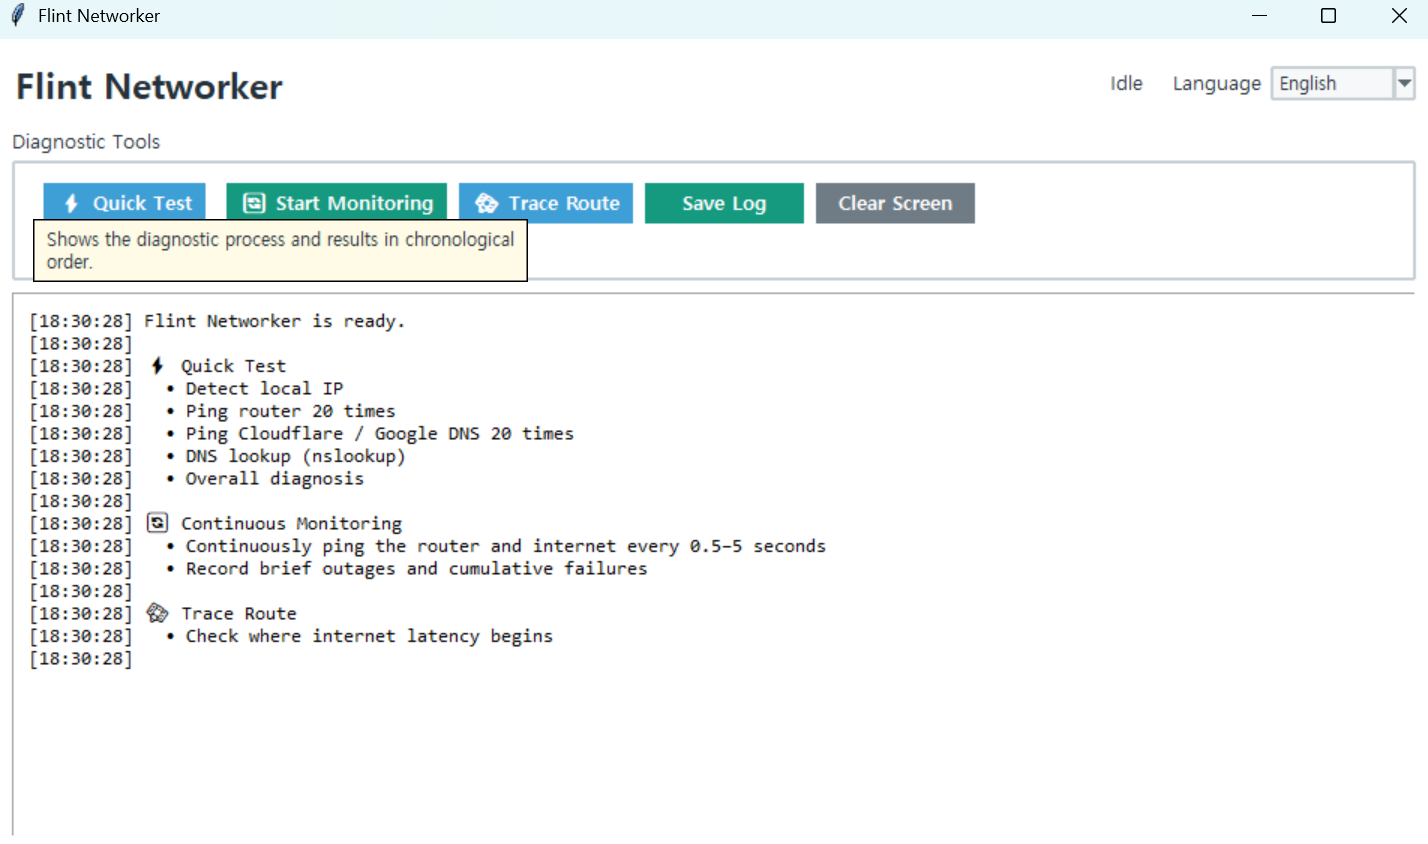
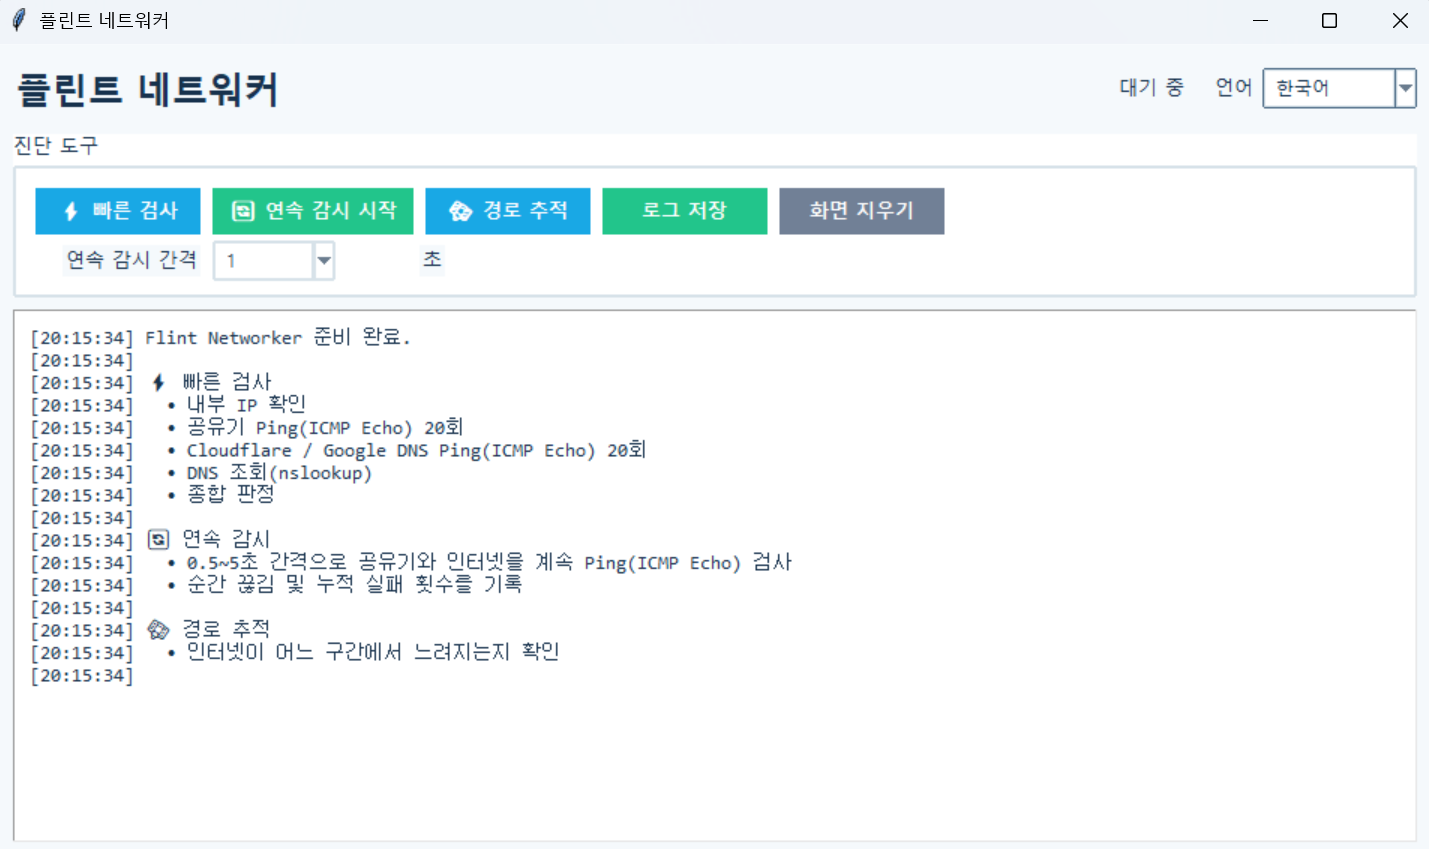
Update badamail: 8 files

diff --git a/toolbox/fnw.html b/toolbox/fnw.html
@@ -1,0 +1,61 @@
+<!doctype html>
+<html lang="ko">
+<head>
+  <meta charset="utf-8">
+  <meta name="viewport" content="width=device-width, initial-scale=1">
+  <title>플린트 네트워커 | 플린트의 공구함</title>
+  <meta name="description" content="인터넷 끊김이나 지연이 PC, 공유기, 외부 회선, DNS 중 어느 구간에서 발생하는지 확인하는 Windows용 네트워크 진단 도구입니다.">
+  <meta name="robots" content="index, follow">
+  <meta property="og:site_name" content="Blackship">
+  <meta property="og:title" content="플린트 네트워커 | 플린트의 공구함">
+  <meta property="og:description" content="인터넷 끊김이나 지연이 PC, 공유기, 외부 회선, DNS 중 어느 구간에서 발생하는지 확인하는 Windows용 네트워크 진단 도구입니다.">
+  <meta property="og:type" content="website">
+  <link rel="alternate" hreflang="ko" href="https://blackship.kr/toolbox/fnw.html">
+  <link rel="alternate" hreflang="en" href="https://blackship.kr/en/toolbox/fnw.html">
+  <link rel="alternate" hreflang="x-default" href="https://blackship.kr/toolbox/fnw.html">
+  <link rel="icon" href="../favicon.ico" type="image/x-icon">
+  <link rel="stylesheet" href="../style.css">
+</head>
+<body>
+  <header class="site-header">
+    <a class="logo" href="../index.html">Blackship</a>
+    <nav class="nav">
+
+      <a href="../index.html">홈</a>
+      <a href="../hidden.html">💎 숨은 보물</a>
+      <a href="../value.html">💰 가성비 보물</a>
+      <a href="../popular.html">🔥 인기 보물</a>
+      <a href="../random.html">🎲 랜덤 보물</a>
+      <a href="../toolbox.html">🧰 공구함</a>
+      <a href="../badamail.html">바다메일</a>
+    </nav>
+  </header>
+
+  <main>
+    
+        <article class="detail toolbox-detail">
+          <div class="toolbox-detail-media">
+            <img src="images/fnw.png" alt="플린트 네트워커" loading="lazy">
+          </div>
+          <div class="toolbox-detail-content">
+            <h1>플린트 네트워커</h1>
+            <p class="toolbox-detail-version">버전: 1.0.0</p>
+            <div class="toolbox-detail-description">
+              <h2>Flint Networker</h2><p>인터넷 끊김이나 지연이 PC, 공유기, 외부 회선, DNS 중 어느 구간에서 발생하는지 확인하는 Windows용 네트워크 진단 도구입니다.</p><h3>빠른 검사</h3><ol><li>프로그램을 실행합니다.</li><li><code>빠른 검사</code>를 누릅니다.</li><li>검사가 끝나면 하단의 종합 판정을 확인합니다.</li><li>필요한 경우 <code>로그 저장</code>을 눌러 결과를 보관합니다.</li></ol><p>빠른 검사는 다음 항목을 확인합니다.</p><ul><li>내부 IP</li><li>기본 게이트웨이</li><li>공유기 Ping 20회</li><li>Cloudflare 및 Google DNS Ping 20회</li><li>DNS 조회</li><li>패킷 손실과 지연시간</li><li>문제 구간 종합 판정</li></ul><h3>연속 감시</h3><p>순간적으로 발생하는 인터넷 끊김을 확인할 때 사용합니다.</p><ol><li>감시 간격을 선택합니다.</li><li><code>연속 감시 시작</code>을 누릅니다.</li><li>끊김이 발생할 때까지 프로그램을 실행해 둡니다.</li><li>검사를 끝낼 때 <code>연속 감시 중지</code>를 누릅니다.</li></ol><p>공유기와 외부 인터넷을 계속 검사하며 누적 실패 횟수를 기록합니다.</p><h3>경로 추적</h3><p><code>경로 추적</code>을 누르면 외부 인터넷까지 거치는 구간을 확인할 수 있습니다.</p><h3>실행 환경</h3><p>Windows의 <code>ping</code>, <code>route</code>, <code>nslookup</code>, <code>tracert</code> 명령을 사용하므로 Windows 전용입니다.</p><p>실행:</p><pre><code class="language-bash">python networker.py</code></pre><blockquote><p><code>참고:</code> 실행 파일(EXE) 버전을 사용하는 경우에는 python 명령을 실행할 필요가 없습니다.</p></blockquote>
+            </div>
+            <div class="toolbox-detail-actions">
+              <a class="buy-button" href="https://github.com/flinthawke/toolbox/releases/download/fnw-v1.0.0/fnw.1.0.0.portable.zip">다운로드</a> <a class="badamail-link" href="https://github.com/flinthawke/toolbox/releases/tag/fnw-v1.0.0" target="_blank" rel="noopener">GitHub에서 소스 보기</a>
+            </div>
+            <p class="toolbox-detail-back"><a class="badamail-link" href="../toolbox.html">공구함으로 돌아가기</a></p>
+          </div>
+        </article>
+        
+  </main>
+
+  <footer class="site-footer">
+    <p>본 프로그램은 있는 그대로(AS IS) 제공됩니다. 사용으로 인해 발생하는 데이터 손실이나 기타 문제에 대해서는 책임을 지지 않습니다.</p>
+    <p>중요한 파일은 반드시 백업한 후 사용하시기 바랍니다.</p>
+  </footer>
+  <img class="visitor-counter-tracker" src="https://hits.sh/blackship.kr.svg?label=visitors&amp;color=000000&amp;labelColor=000000" alt="" width="1" height="1" aria-hidden="true">
+</body>
+</html>

diff --git a/en/toolbox/fnw.html b/en/toolbox/fnw.html
@@ -1,0 +1,63 @@
+<!doctype html>
+<html lang="en">
+<head>
+  <meta charset="utf-8">
+  <meta name="viewport" content="width=device-width, initial-scale=1">
+  <title>Flint Networker | Flint&#x27;s Toolbox</title>
+  <meta name="description" content="A Windows network diagnostic tool that helps identify whether internet disconnections or latency issues originate from the PC, router, external network, or DNS.">
+  <meta name="robots" content="index, follow">
+  <meta property="og:site_name" content="Blackship">
+  <meta property="og:title" content="Flint Networker | Flint&#x27;s Toolbox">
+  <meta property="og:description" content="A Windows network diagnostic tool that helps identify whether internet disconnections or latency issues originate from the PC, router, external network, or DNS.">
+  <meta property="og:type" content="website">
+  <link rel="alternate" hreflang="ko" href="https://blackship.kr/toolbox/fnw.html">
+  <link rel="alternate" hreflang="en" href="https://blackship.kr/en/toolbox/fnw.html">
+  <link rel="alternate" hreflang="x-default" href="https://blackship.kr/toolbox/fnw.html">
+  <link rel="icon" href="../favicon.ico" type="image/x-icon">
+  <link rel="stylesheet" href="../style.css">
+</head>
+<body>
+  <header class="site-header">
+    <a class="logo" href="../index.html">Blackship</a>
+    <nav class="nav">
+
+      <a href="../index.html">Home</a>
+      <a href="../hidden.html">💎 Hidden Treasures</a>
+      <a href="../value.html">💰 Value Treasures</a>
+      <a href="../popular.html">🔥 Popular Treasures</a>
+      <a href="../random.html">🎲 Random Treasure</a>
+      <a href="../toolbox.html">🧰 Toolbox</a>
+      <a href="../badamail.html">Sea Mail</a>
+    </nav>
+  </header>
+
+  <main>
+    
+        <article class="detail toolbox-detail">
+          <div class="toolbox-detail-media">
+            <img src="images/fnw_en.png" alt="Flint Networker" loading="lazy">
+          </div>
+          <div class="toolbox-detail-content">
+            <h1>Flint Networker</h1>
+            <p class="toolbox-detail-version">Version: 1.0.0</p>
+            <div class="toolbox-detail-description">
+              <h2>Flint Networker</h2><p>A Windows network diagnostic tool that helps identify whether internet disconnections or latency issues originate from the PC, router, external network, or DNS.</p><h3>Quick Check</h3><ol><li>Run the program.</li><li>Click <code>Quick Check</code>.</li><li>When the check is complete, review the overall diagnosis at the bottom.</li><li>If needed, click <code>Save Log</code> to save the results.</li></ol><p>Quick Check examines the following:</p><ul><li>Local IP address</li><li>Default gateway</li><li>20 ping tests to the router</li><li>20 ping tests to Cloudflare and Google DNS</li><li>DNS lookup</li><li>Packet loss and latency</li><li>Overall diagnosis of the affected network segment</li></ul><h3>Continuous Monitoring</h3><p>Use this mode to detect intermittent internet disconnections.</p><ol><li>Select the monitoring interval.</li><li>Click <code>Start Continuous Monitoring</code>.</li><li>Leave the program running until a disconnection occurs.</li><li>Click <code>Stop Continuous Monitoring</code> when you want to end the test.</li></ol><p>The program continuously checks the router and external internet connection while recording the cumulative number of failures.</p><h3>Traceroute</h3><p>Click <code>Traceroute</code> to view the network path from your PC to the external internet.</p><h3>System Requirements</h3><p>This tool is designed for Windows because it uses the built-in <code>ping</code>, <code>route</code>, <code>nslookup</code>, and <code>tracert</code> commands.</p><p>Run:</p><p>```bash id="r2u8f1"<br>
+python networker.py</p><pre><code>
+&gt; **Note:** If you are using the executable (EXE) version, you do not need to run any Python commands.</code></pre>
+            </div>
+            <div class="toolbox-detail-actions">
+              <a class="buy-button" href="https://github.com/flinthawke/toolbox/releases/download/fnw-v1.0.0/fnw.1.0.0.portable.zip">Download</a> <a class="badamail-link" href="https://github.com/flinthawke/toolbox/releases/tag/fnw-v1.0.0" target="_blank" rel="noopener">View source on GitHub</a>
+            </div>
+            <p class="toolbox-detail-back"><a class="badamail-link" href="../toolbox.html">Back to Toolbox</a></p>
+          </div>
+        </article>
+        
+  </main>
+
+  <footer class="site-footer">
+    <p>This program is provided AS IS, without any warranty. The author is not responsible for data loss or any other issues resulting from its use.</p>
+    <p>Please back up important files before using this program.</p>
+  </footer>
+  <img class="visitor-counter-tracker" src="https://hits.sh/blackship.kr.svg?label=visitors&amp;color=000000&amp;labelColor=000000" alt="" width="1" height="1" aria-hidden="true">
+</body>
+</html>

diff --git a/toolbox.html b/toolbox.html
@@ -36,6 +36,20 @@
   <main>
     <h1>플린트의 공구함</h1><p>플린트호크가 항해에 쓸 만한 도구를 모아둔 공구함입니다.<br>원자력포, 반중력 순항장치, 대왕문어 퇴치기 등도 있지만 공개하지 않습니다.</p><div class="update-notice"><strong>Windows 실행 안내</strong><br>Windows에서 다운로드한 실행 파일이 보안 기능에 의해 차단될 수 있습니다.<br>실행되지 않는 경우 파일을 마우스 오른쪽 버튼으로 클릭한 후 <strong>속성 → 차단 해제 → 적용</strong>을 선택하고 다시 실행해 주세요.<br>Flint 도구는 별도의 코드 서명 인증서를 사용하지 않으므로 <strong>알 수 없는 게시자</strong>로 표시될 수 있습니다.</div><section class="grid">
         <article class="product-card card toolbox-card">
+          <a class="toolbox-card-media" href="toolbox/fnw.html">
+            <img src="toolbox/images/fnw.png" alt="플린트 네트워커" loading="lazy">
+          </a>
+          <div class="product-body card-body toolbox-card-body">
+            <h2><a href="toolbox/fnw.html">플린트 네트워커</a></h2>
+            <p>인터넷 끊김이나 지연이 PC, 공유기, 외부 회선, DNS 중 어느 구간에서 발생하는지 확인하는 Windows용 네트워크 진단 도구입니다.</p>
+            <div class="toolbox-card-footer">
+              <p class="toolbox-card-version">버전: 1.0.0</p>
+              <a class="buy-button" href="toolbox/fnw.html">설명 및 설치 방법</a>
+            </div>
+          </div>
+        </article>
+        
+        <article class="product-card card toolbox-card">
           <a class="toolbox-card-media" href="toolbox/fti.html">
             <img src="toolbox/images/fti.png" alt="플린트 텍스트 인서터" loading="lazy">
           </a>

diff --git a/en/toolbox.html b/en/toolbox.html
@@ -36,6 +36,20 @@ It also contains a nuclear cannon, an anti-gravity cruise system, and a giant sq
   <main>
     <h1>Flint&#x27;s Toolbox</h1><p>Flinthawk&#x27;s toolbox is stocked with useful gear for the voyage.<br>It also contains a nuclear cannon, an anti-gravity cruise system, and a giant squid repeller, but those are not available to the public.</p><div class="update-notice"><strong>Windows Run Notice</strong><br>Windows security features may block executable files downloaded from the internet.<br>If an application does not run, right-click the file and select <strong>Properties → Unblock → Apply</strong>, then try again.<br>Because Flint tools are not digitally signed with a code-signing certificate, Windows may display <strong>Unknown publisher</strong>.</div><section class="grid">
         <article class="product-card card toolbox-card">
+          <a class="toolbox-card-media" href="toolbox/fnw.html">
+            <img src="toolbox/images/fnw_en.png" alt="Flint Networker" loading="lazy">
+          </a>
+          <div class="product-body card-body toolbox-card-body">
+            <h2><a href="toolbox/fnw.html">Flint Networker</a></h2>
+            <p>A Windows network diagnostic tool that helps identify whether internet disconnections or latency issues originate from the PC, router, external network, or DNS.</p>
+            <div class="toolbox-card-footer">
+              <p class="toolbox-card-version">Version: 1.0.0</p>
+              <a class="buy-button" href="toolbox/fnw.html">View details</a>
+            </div>
+          </div>
+        </article>
+        
+        <article class="product-card card toolbox-card">
           <a class="toolbox-card-media" href="toolbox/fti.html">
             <img src="toolbox/images/fti_en.png" alt="Flint Text Inserter" loading="lazy">
           </a>
